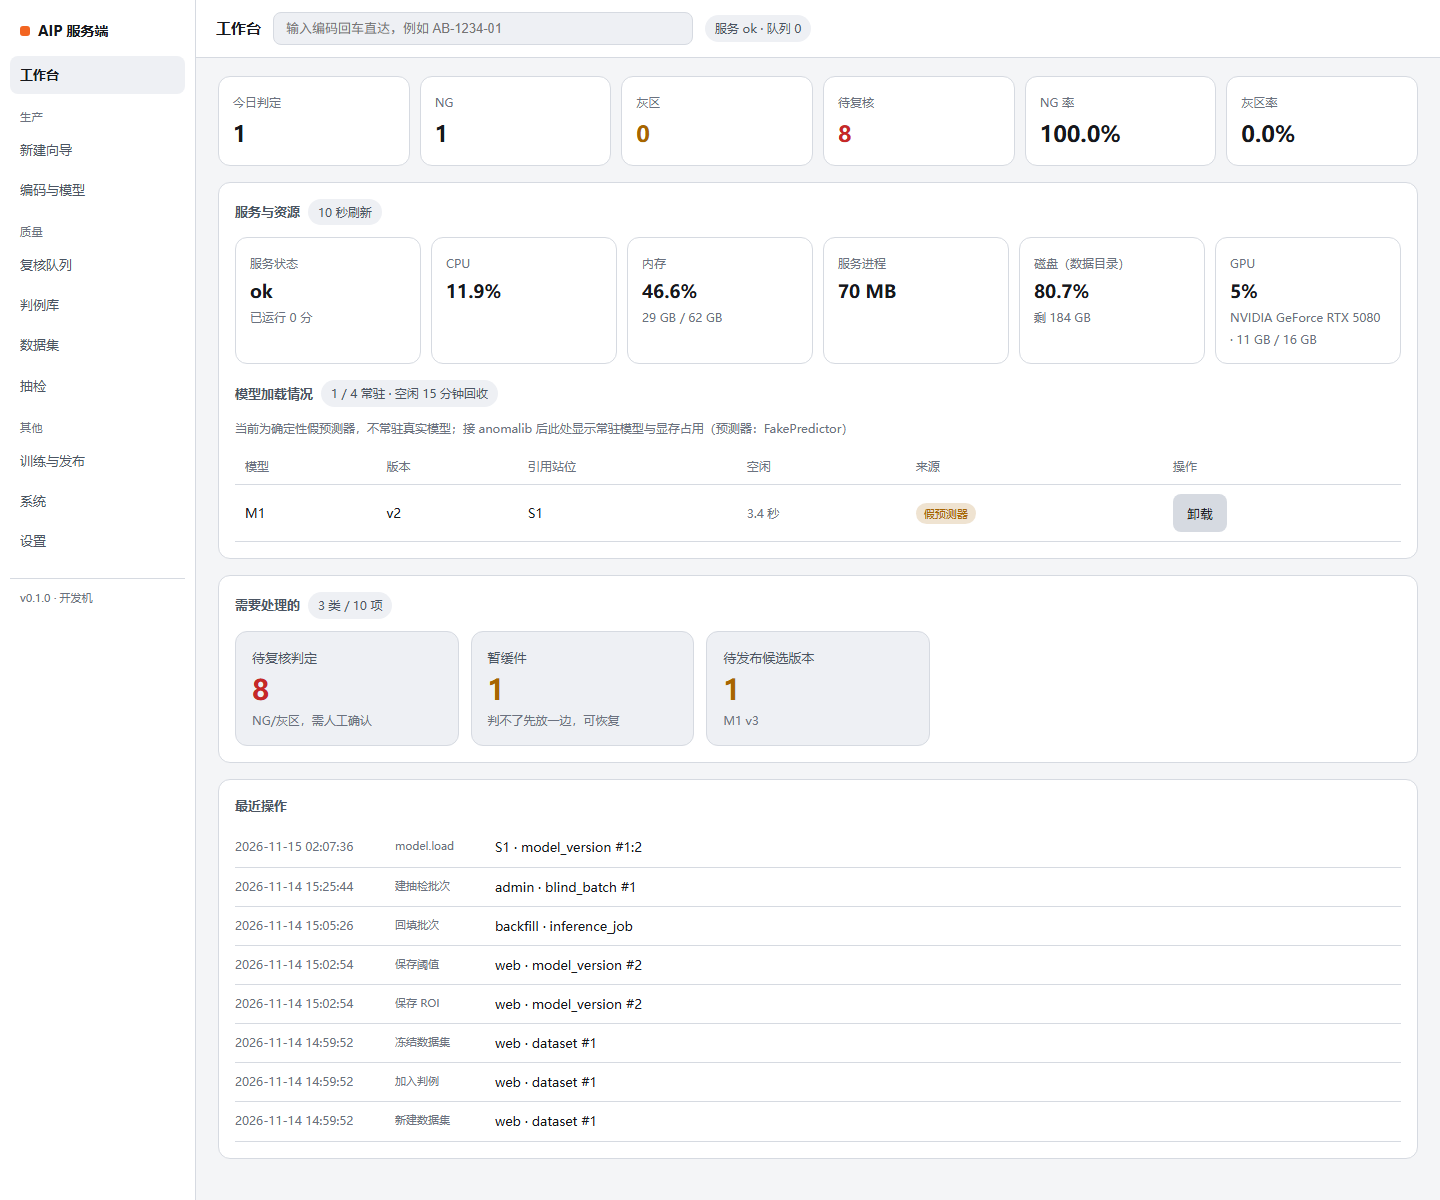
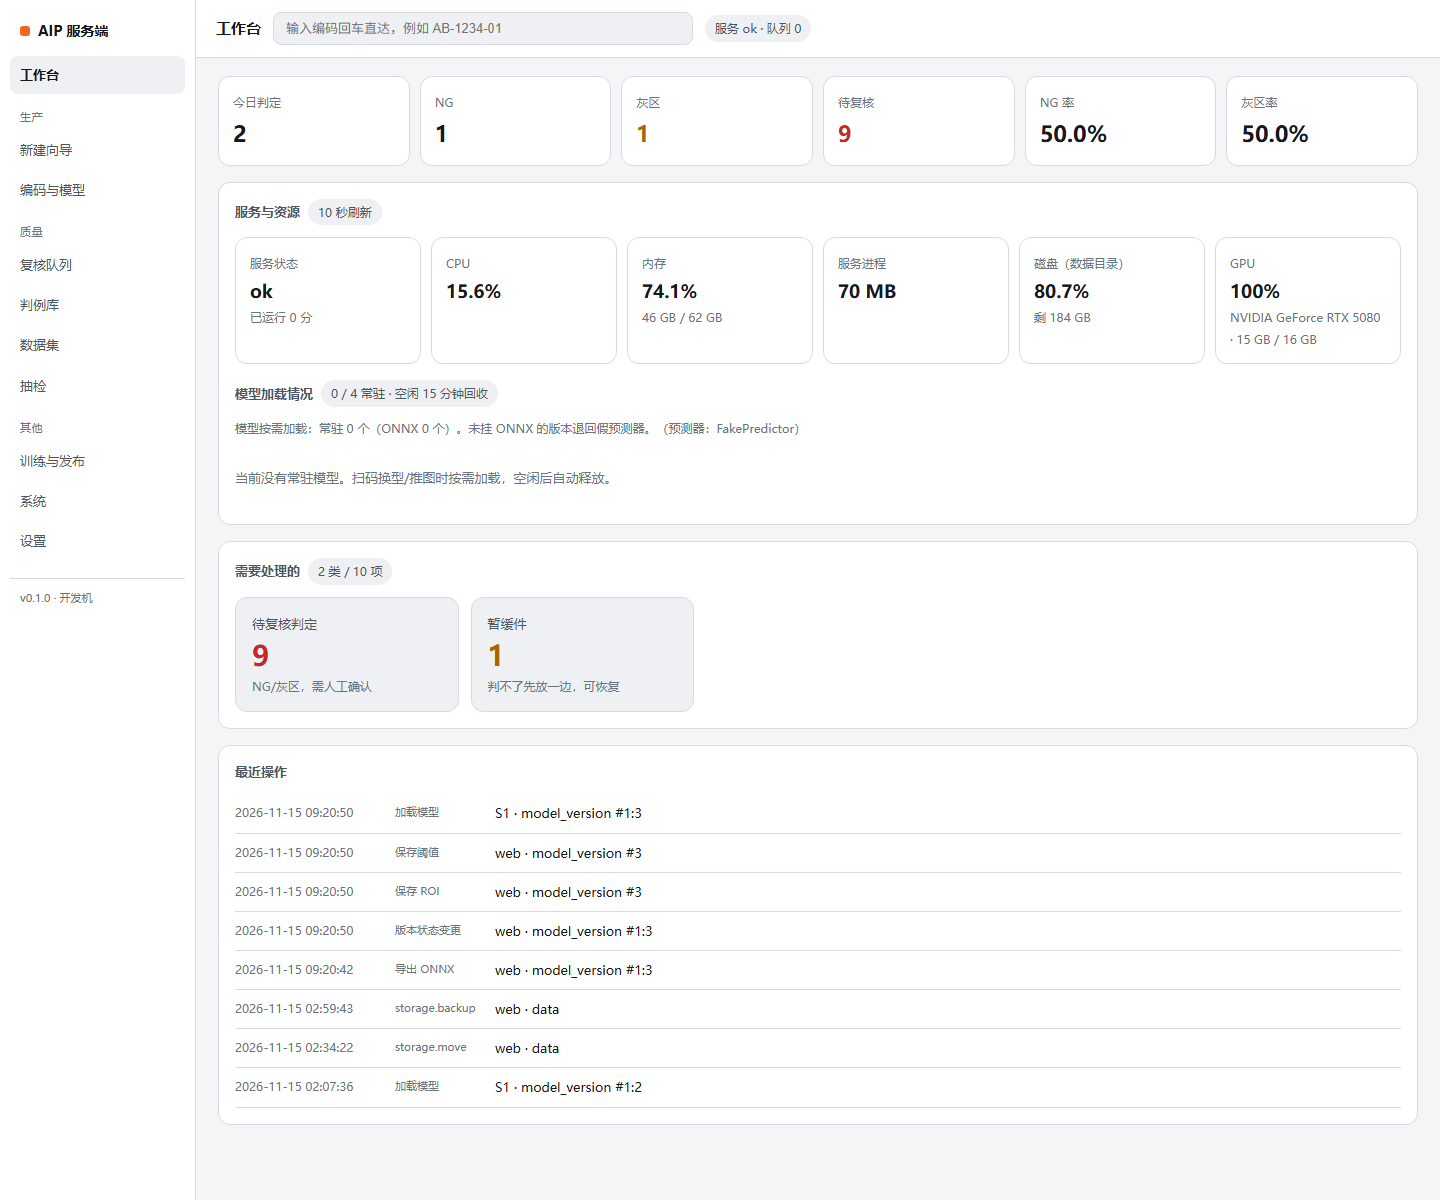
feat: ONNX 导出（stub 真实计算图）与自动挂载；换 ONNX 失效模型缓存；修复测试间缓存污染

diff --git a/aip/web/admin.html b/aip/web/admin.html
@@ -351,7 +351,7 @@ const ACTIONS = {
   "dataset.create": "新建数据集", "dataset.add": "加入判例", "dataset.remove": "移出判例",
   "dataset.freeze": "冻结数据集", "batch.backfill": "回填批次",
   "blind.create": "建抽检批次", "blind.close": "关闭抽检批次",
-  "model.smoke": "冒烟试判", "model.load": "加载模型", "model.unload": "卸载模型", "setting.bulk_update": "批量修改设置", "train.cancel": "取消训练",
+  "model.smoke": "冒烟试判", "model.load": "加载模型", "model.unload": "卸载模型", "model.export": "导出 ONNX", "model.onnx": "挂载 ONNX", "setting.bulk_update": "批量修改设置", "train.cancel": "取消训练",
 };
 const actionLabel = (a) => ACTIONS[a] || a;
 
@@ -2212,6 +2212,7 @@ async function renderTraining() {
       ? '<span class="tag ok">ONNX 已挂</span>'
       : '<span class="tag gray">未挂 ONNX</span>';
     const onnxBtn = `<button class="ghost" data-onnx="${m.id}:${v.version_no}">${v.onnx_path ? "换 ONNX" : "挂 ONNX"}</button>`;
+    const exportBtn = v.onnx_path ? "" : `<button class="ghost" data-export="${m.id}:${v.version_no}">导出 ONNX</button>`;
     const action = v.status === "candidate"
       ? `<button class="act" data-publish="${m.id}:${v.version_no}" data-label="${esc(m.code)} v${v.version_no}">发布为生效</button>`
       : v.status === "assist" ? '<span class="muted">当前生效</span>'
@@ -2225,7 +2226,7 @@ async function renderTraining() {
       <td>${ovk}</td>
       <td class="muted">${fmtTime(v.created_at)}</td>
       <td><span class="tag ${v.status}">${esc(stLabel(v.status))}</span></td>
-      <td>${action} ${onnxBtn}</td>
+      <td>${action} ${onnxBtn} ${exportBtn}</td>
     </tr>`;
   }).join("");
 
@@ -2339,6 +2340,18 @@ async function renderTraining() {
           body: JSON.stringify({onnx_path: path.trim()})
         });
         toast("ONNX 已绑定");
+        renderTraining();
+      } catch (e) { toast(e.message, true); }
+    };
+  });
+
+  document.querySelectorAll("[data-export]").forEach(btn => {
+    btn.onclick = async () => {
+      const [mid, vno] = btn.dataset.export.split(":");
+      if (!confirm("用服务端导出演示 ONNX（亮度均值模型）？\n真实模型请在训练机导出后「挂 ONNX」。")) return;
+      try {
+        const r = await post(`/api/models/${mid}/versions/${vno}/export`, {backend: "stub"});
+        toast(r.skipped ? "该版本已有 ONNX" : "已导出并挂载");
         renderTraining();
       } catch (e) { toast(e.message, true); }
     };

diff --git a/tests/test_export_onnx.py b/tests/test_export_onnx.py
@@ -1,0 +1,89 @@
+"""ONNX 导出与真实推理链路验收。"""
+
+from __future__ import annotations
+
+import io
+
+import numpy as np
+import pytest
+from fastapi.testclient import TestClient
+from PIL import Image
+
+from aip import store, whitelist
+from aip.api.app import create_app
+
+
+@pytest.fixture()
+def client(tmp_path, monkeypatch):
+    monkeypatch.setenv("AIP_WHITELIST", str(tmp_path / "none.yaml"))
+    whitelist.reset_cache()
+    db = tmp_path / "data" / "aip.db"
+    db.parent.mkdir()
+    conn = store.connect(db)
+    store.migrate(conn)
+    conn.close()
+    return TestClient(create_app(db))
+
+
+def _png(size: int = 96, value: int = 120) -> bytes:
+    rng = np.random.default_rng(3)
+    arr = np.clip(np.full((size, size, 3), value, dtype=np.int16) + rng.integers(-30, 30, (size, size, 3)), 0, 255).astype(np.uint8)
+    buf = io.BytesIO()
+    Image.fromarray(arr, "RGB").save(buf, format="PNG")
+    return buf.getvalue()
+
+
+def _model_version(client):
+    client.post("/api/codes", json={"code": "AB-1", "family": "支架类"})
+    model = client.post("/api/models", json={"code": "M1"}).json()
+    version = client.post(f"/api/models/{model['id']}/versions", json={"version_no": 1}).json()
+    return model["id"], version["id"]
+
+
+def test_export_stub_binds_onnx(client):
+    mid, vid = _model_version(client)
+    resp = client.post(f"/api/models/{mid}/versions/1/export", json={"backend": "stub"})
+    assert resp.status_code == 200
+    body = resp.json()
+    assert body["onnx_path"].endswith(".onnx")
+    assert body["skipped"] is False
+
+    versions = client.get("/api/models").json()[0]["versions"]
+    assert versions[0]["onnx_path"] == body["onnx_path"]
+
+    again = client.post(f"/api/models/{mid}/versions/1/export", json={"backend": "stub"})
+    assert again.json()["skipped"] is True
+
+
+def test_export_rejects_unknown_backend(client):
+    mid, _ = _model_version(client)
+    resp = client.post(f"/api/models/{mid}/versions/1/export", json={"backend": "anomalib"})
+    assert resp.status_code == 400
+
+
+def test_onnx_inference_end_to_end(client):
+    mid, vid = _model_version(client)
+    export = client.post(f"/api/models/{mid}/versions/1/export", json={"backend": "stub"}).json()
+    assert export["onnx_path"]
+
+    client.put(f"/api/models/{mid}/versions/1/status", json={"status": "assist"})
+    client.post("/api/bindings", json={"code": "AB-1", "model_id": mid})
+    client.post("/api/configs", json={"model_version_id": vid, "rev": 1, "roi_rect": [0, 0, 96, 96]})
+    client.post("/api/thresholds", json={"model_version_id": vid, "roi_rev": 1, "rev": 1,
+                                        "th_lo": 0.2, "th_hi": 0.8})
+
+    job = client.post(
+        "/infer",
+        data={"code": "AB-1", "station": "S1", "part_no": "P-1", "batch_no": "B-1"},
+        files={"image": ("a.png", _png(96, 120), "image/png")},
+        headers={"Idempotency-Key": "k-ort-1"},
+    )
+    assert job.status_code == 202
+    detail = client.get(f"/infer/{job.json()['job_id']}").json()
+    result = detail["result"]
+    assert result is not None
+    assert 0.0 <= result["score"] <= 1.0
+    assert result["label"] in ("ok", "gray", "ng")
+    cache = client.get("/api/model-cache").json()
+    assert cache["count"] >= 1
+    assert cache["items"][0]["fake"] is False

diff --git a/aip/src/aip/training/export.py b/aip/src/aip/training/export.py
@@ -1,0 +1,75 @@
+"""ONNX 导出。
+
+当前训练是模拟器，没有真实权重可导。这里提供两条路：
+
+1. `export_stub`：生成一个**真实的 ONNX 计算图**（输入 [-1,1] 图像 → 亮度均值分数），
+   用于把"导出 → 挂载 → 冒烟 → 发布"整条链路跑通并测试；
+2. `export_with_anomalib`：训练机装好 torch/anomalib 后，从 checkpoint 导出；
+   未安装时给出可执行的错误，而不是静默返回假文件。
+
+导出文件落在 `<data-dir>/models/<model>-v<version>.onnx`。
+"""
+
+from __future__ import annotations
+
+from pathlib import Path
+
+
+class ExportUnavailable(RuntimeError):
+    pass
+
+
+def _import_onnx():
+    try:
+        import onnx  # noqa: PLC0415
+        from onnx import TensorProto, helper  # noqa: PLC0415
+    except ImportError as exc:  # pragma: no cover - 环境相关
+        raise ExportUnavailable(
+            "未安装 onnx；服务端导出演示模型需 pip install onnx；"
+            "真实模型请在训练机用 anomalib 导出后「挂 ONNX」"
+        ) from exc
+    return onnx, TensorProto, helper
+
+
+def export_stub(out_path: Path, height: int = 256, width: int = 256) -> Path:
+    """生成亮度均值模型：score = (mean(pixels)+1)/2，输入默认 [-1,1]。"""
+    onnx, TensorProto, helper = _import_onnx()
+    out_path.parent.mkdir(parents=True, exist_ok=True)
+
+    inp = helper.make_tensor_value_info("images", TensorProto.FLOAT, [1, 3, height, width])
+    out = helper.make_tensor_value_info("score", TensorProto.FLOAT, [1, 1, 1, 1])
+
+    one = helper.make_tensor("one", TensorProto.FLOAT, [1], [1.0])
+    half = helper.make_tensor("half", TensorProto.FLOAT, [1], [0.5])
+
+    nodes = [
+        helper.make_node("ReduceMean", ["images"], ["mean"], axes=[1, 2, 3], keepdims=1),
+        helper.make_node("Add", ["mean", "one"], ["shifted"]),
+        helper.make_node("Mul", ["shifted", "half"], ["score"]),
+    ]
+    graph = helper.make_graph(nodes, "aip_stub", [inp], [out], initializer=[one, half])
+    model = helper.make_model(graph, opset_imports=[helper.make_opsetid("", 13)])
+    model.ir_version = 8
+    onnx.checker.check_model(model)
+    onnx.save(model, str(out_path))
+    return out_path
+
+
+def export_with_anomalib(onnx_path: Path, checkpoint: str, model_name: str = "patchcore") -> Path:
+    """训练机导出（需要 torch + anomalib）。"""
+    try:
+        from anomalib.deploy import ExportType, export_to_onnx  # noqa: PLC0415
+    except ImportError as exc:  # pragma: no cover - 训练机才有
+        raise ExportUnavailable(
+            "当前环境没有 anomalib；真实导出请在训练机执行："
+            "pip install anomalib torch，并配置 checkpoint 路径"
+        ) from exc
+
+    onnx_path.parent.mkdir(parents=True, exist_ok=True)
+    export_to_onnx(model=None, export_root=str(onnx_path.parent), model_name=model_name)  # type: ignore[arg-type]
+    return onnx_path
+
+
+def default_export_path(data_dir: Path, model_code: str, version_no: int) -> Path:
+    safe = "".join(ch for ch in model_code if ch.isalnum() or ch in "-_") or "model"
+    return data_dir / "models" / f"{safe}-v{version_no}.onnx"

diff --git a/aip/src/aip/api/routes_train.py b/aip/src/aip/api/routes_train.py
@@ -15,8 +15,10 @@ from pydantic import BaseModel
 
 from ..audit import record
 from ..inference.onnx import PredictorUnavailable, build_predictor, load_session
+from ..training.export import ExportUnavailable, default_export_path, export_stub
 from ..inference.service import GATE_MESSAGES, check_gate, label_for
 from ..settings import gate_config, get_value
+from ..serving.cache import cache
 from ..store import tx
 from .deps import get_conn
 from .errors import ApiError
@@ -112,6 +114,59 @@ def list_train(
         item.pop("metrics_json", None)
         out.append(item)
     return out
+
+
+class ExportIn(BaseModel):
+    backend: str = "stub"
+
+
+@router.post("/models/{model_id}/versions/{version_no}/export")
+def export_onnx(
+    model_id: int, version_no: int, body: ExportIn,
+    conn: sqlite3.Connection = Depends(get_conn),
+) -> dict:
+    """把版本导出为 ONNX 并自动挂载。
+
+    backend=stub：生成真实的亮度均值图（演示/链路验证）；
+    真实模型请用 anomalib 在训练机导出后走「挂 ONNX」接口。
+    """
+    version = conn.execute(
+        "SELECT onnx_path FROM model_version WHERE model_id = ? AND version_no = ?",
+        (model_id, version_no),
+    ).fetchone()
+    if version is None:
+        raise ApiError("version_not_found", f"版本 v{version_no} 不存在", "刷新", 404)
+    if version["onnx_path"]:
+        return {"skipped": True, "onnx_path": version["onnx_path"]}
+
+    model = conn.execute("SELECT code FROM model WHERE id = ?", (model_id,)).fetchone()
+    db_file = Path(conn.execute("PRAGMA database_list").fetchone()[2])
+    target = default_export_path(db_file.parent, model["code"], version_no)
+
+    if body.backend != "stub":
+        raise ApiError(
+            "backend_unsupported", "服务端只支持 stub 导出",
+            "真实模型请在训练机导出后用「挂 ONNX」", 400,
+        )
+
+    try:
+        export_stub(target)
+    except ExportUnavailable as exc:
+        raise ApiError("export_unavailable", str(exc), "pip install onnx 或改在训练机导出", 503) from exc
+    except Exception as exc:  # noqa: BLE001
+        raise ApiError("export_failed", f"导出失败: {exc}", "检查磁盘与依赖", 500) from exc
+
+    with tx(conn):
+        conn.execute(
+            "UPDATE model_version SET onnx_path = ? WHERE model_id = ? AND version_no = ?",
+            (str(target), model_id, version_no),
+        )
+        record(conn, actor="web", action="model.export", entity="model_version",
+               entity_id=f"{model_id}:{version_no}",
+               payload={"onnx_path": str(target), "backend": body.backend})
+    cache.unload(f"{model_id}:{version_no}", force=True)
+    return {"model_id": model_id, "version_no": version_no, "onnx_path": str(target),
+            "backend": body.backend, "skipped": False}
 
 
 @router.post("/models/{model_id}/versions/{version_no}/smoke")

diff --git a/aip/src/aip/api/routes_admin.py b/aip/src/aip/api/routes_admin.py
@@ -133,6 +133,14 @@ def system_metrics(conn: sqlite3.Connection = Depends(get_conn)) -> dict:
         " WHERE mv.status = 'assist' ORDER BY m.code"
     ).fetchall()
 
+    entries = cache.entries()
+    real = sum(1 for e in entries if not e["fake"])
+    predictor = "ONNX Runtime" if real else "FakePredictor"
+    note = (
+        f"模型按需加载：常驻 {len(entries)} 个（ONNX {real} 个）。"
+        "未挂 ONNX 的版本退回假预测器。"
+    )
+
     return {
         "service": {
             "status": "ok",
@@ -147,9 +155,9 @@ def system_metrics(conn: sqlite3.Connection = Depends(get_conn)) -> dict:
         "disk": metrics_mod.disk(data_dir),
         "gpu": metrics_mod.gpu(),
         "models": {
-            "predictor": "FakePredictor",
-            "loaded": 0,
-            "note": "当前为确定性假预测器，不常驻真实模型；接 anomalib 后此处显示常驻模型与显存占用",
+            "predictor": predictor,
+            "loaded": len(entries),
+            "note": note,
             "items": [
                 {
                     "model_code": r["model_code"],

diff --git a/aip/src/aip/api/routes_catalog.py b/aip/src/aip/api/routes_catalog.py
@@ -13,6 +13,7 @@ from fastapi import APIRouter, Depends, HTTPException
 from pydantic import BaseModel, Field
 
 from ..audit import record
+from ..serving.cache import cache
 from ..store import tx
 from .errors import ApiError
 from .deps import get_conn
@@ -293,6 +294,7 @@ def set_onnx(
             raise LookupError(f"版本不存在: {model_id}:{version_no}")
         record(conn, actor="web", action="model.onnx", entity="model_version",
                entity_id=f"{model_id}:{version_no}", payload={"onnx_path": str(path)})
+    cache.unload(f"{model_id}:{version_no}", force=True)
     return {"model_id": model_id, "version_no": version_no, "onnx_path": str(path)}
 
 

diff --git a/aip/src/aip/serving/cache.py b/aip/src/aip/serving/cache.py
@@ -131,6 +131,12 @@ class ModelCache:
             self._unload(key)
             return True
 
+    def reset(self) -> None:
+        """清空缓存（测试隔离，或换 ONNX 后强制重载）。"""
+        with self._lock:
+            for key in list(self._entries):
+                self._unload(key)
+
     def entries(self, now: float | None = None) -> list[dict]:
         now = time.time() if now is None else now
         with self._lock:

diff --git a/conftest.py b/conftest.py
@@ -7,3 +7,16 @@ ROOT = Path(__file__).resolve().parent
 SRC = ROOT / "aip" / "src"
 if str(SRC) not in sys.path:
     sys.path.insert(0, str(SRC))
+
+
+import pytest as _pytest
+
+
+@_pytest.fixture(autouse=True)
+def reset_model_cache():
+    """模型缓存是进程级单例，测试间必须清空。"""
+    from aip.serving.cache import cache
+
+    cache.reset()
+    yield
+    cache.reset()

diff --git a/docs/deploy/windows-deploy.md b/docs/deploy/windows-deploy.md
@@ -85,7 +85,14 @@ powershell -ExecutionPolicy Bypass -File scripts\start.ps1
 
 CUDA 与 cuDNN 不随项目分发，需按 NVIDIA 官方文档自行安装匹配版本（GPU 显存建议 ≥8 GB）。
 
-**把模型挂到版本**：训练与发布 → 版本行 → 「挂 ONNX」→ 填导出文件绝对路径；
+'**导出与挂载**：
+
+- 演示/链路验证：训练与发布 → 版本行 → **「导出 ONNX」**（服务端生成一个真实的亮度均值图，落 `data/models/<model>-v<ver>.onnx` 并自动挂载）；
+- 真实模型：在训练机用 anomalib 导出后，版本行 → **「挂 ONNX」** → 填绝对路径。
+
+> 服务端导出演示模型需要可选依赖：`pip install -r requirements-export.txt`（含 `onnx`）。
+
+**把模型挂到版本**：训练与发布 → 版本行 → 「挂 ONNX」→ 填导出文件绝对路径；'
 工位推图时若该版本有 ONNX 路径则走 ONNX Runtime，否则退回演示用假预测器。
 
 相关设置（设置 → 接入）：
